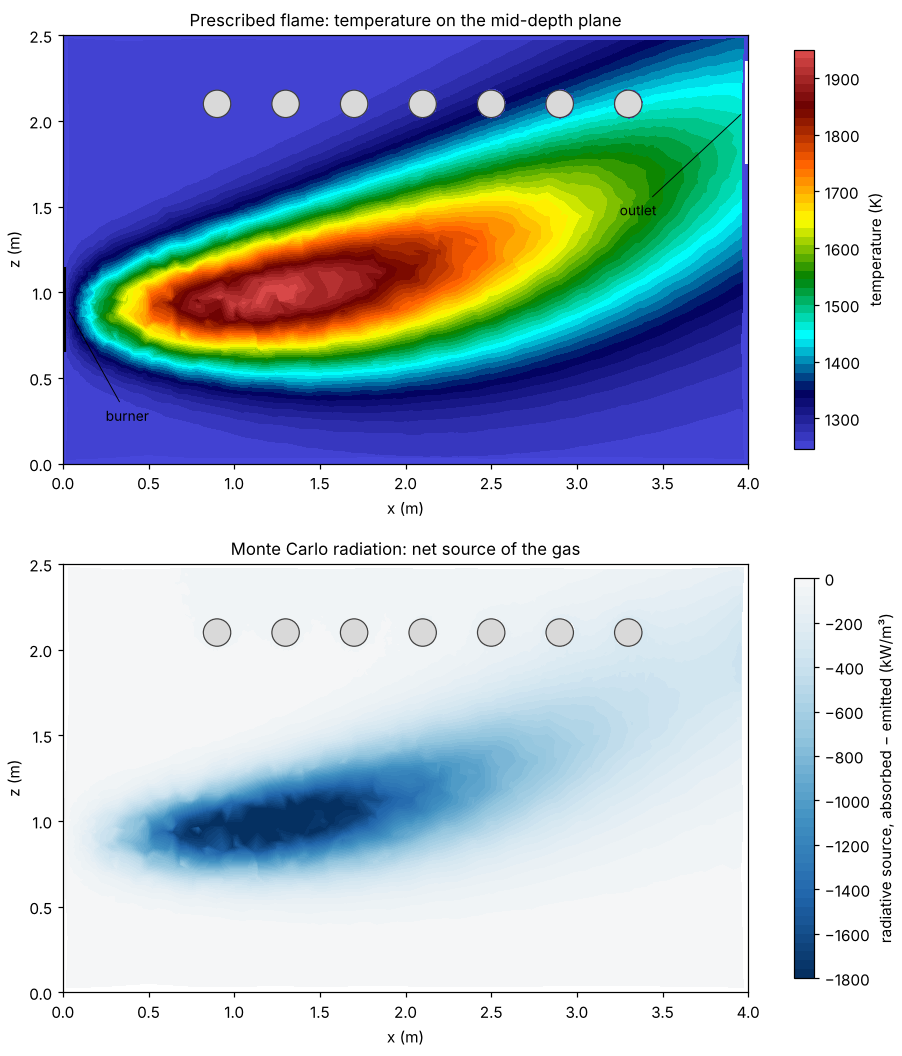
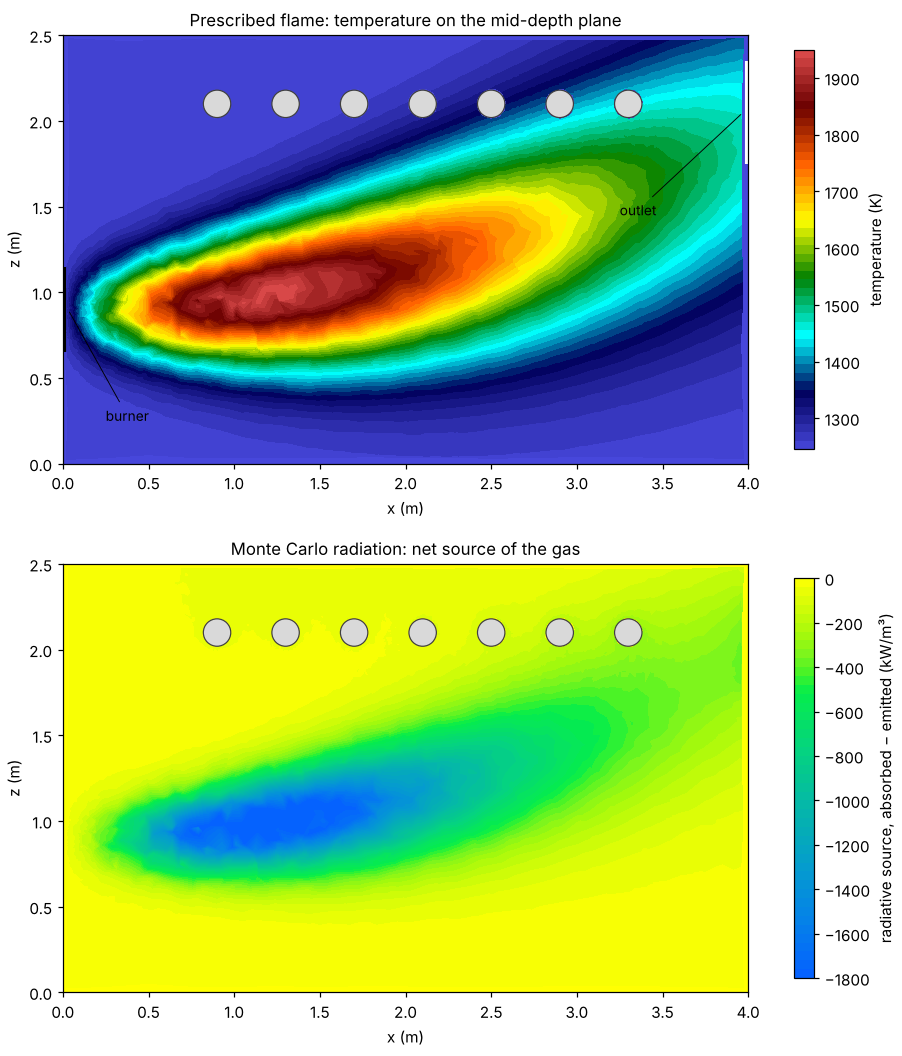
plot: the radiative source takes Rainbow Uniform, the map of signed fields (D261) (#259)
Claude-Session: https://claude.ai/code/session_012imjwmrACdiAXmSmkQw48u

diff --git a/tools/plot/radiation_furnace.py b/tools/plot/radiation_furnace.py
@@ -27,7 +27,7 @@ import numpy as np
 from matplotlib.colors import TwoSlopeNorm
 from matplotlib.patches import Circle
 
-from tools.plot.colormaps import RAINBOW
+from tools.plot.colormaps import RAINBOW, UNIFORM
 
 LENGTH, DEPTH, HEIGHT = 4.0, 2.0, 2.5
 TUBE_R, TUBE_Z = 0.08, 2.1
@@ -104,7 +104,10 @@ def plane(out, cells):
     ax = axes[1]
     lim = np.percentile(np.abs(src), 99.5)
     norm = TwoSlopeNorm(vcenter=0.0, vmin=-lim, vmax=max(lim * 0.25, src.max(initial=0.0)))
-    cs = ax.tricontourf(tri, np.clip(src, -lim, lim), levels=48, cmap="RdBu_r", norm=norm)
+    # a signed field centred on zero takes Rainbow Uniform (D261); the
+    # margin the cell centres leave at the walls shows the colour of zero
+    ax.set_facecolor(plt.get_cmap(UNIFORM)(norm(0.0)))
+    cs = ax.tricontourf(tri, np.clip(src, -lim, lim), levels=48, cmap=UNIFORM, norm=norm)
     fig.colorbar(cs, ax=ax, label="radiative source, absorbed − emitted (kW/m³)", shrink=0.9)
     tubes(ax)
     frame(ax, "Monte Carlo radiation: net source of the gas")
